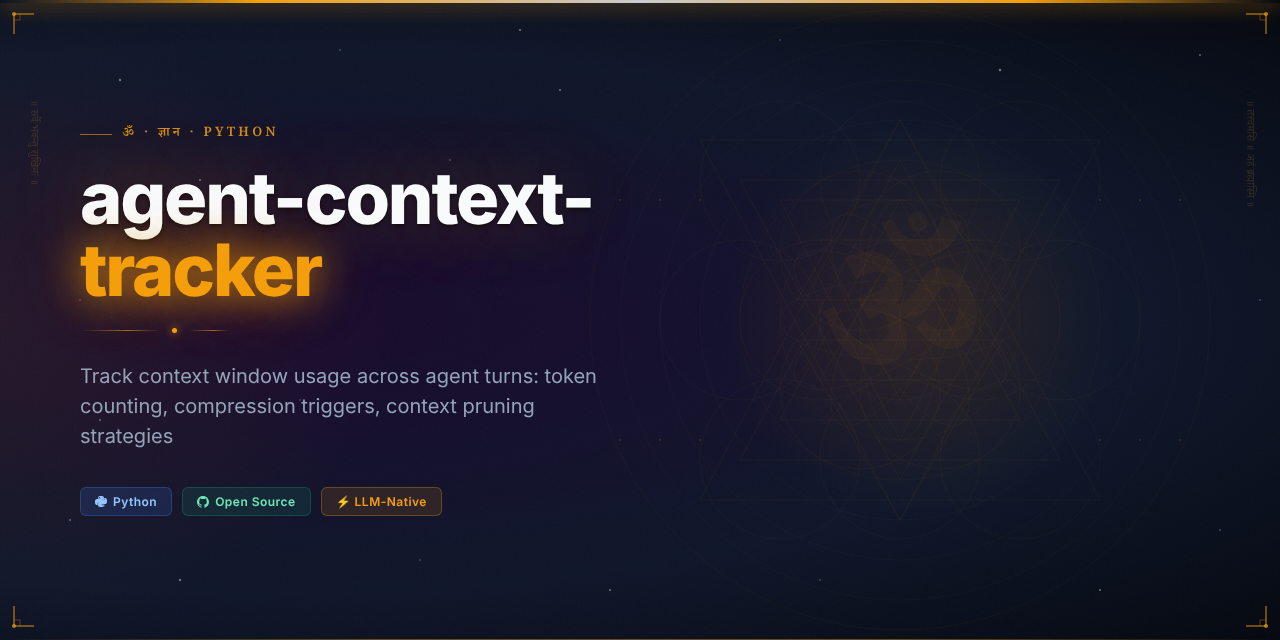
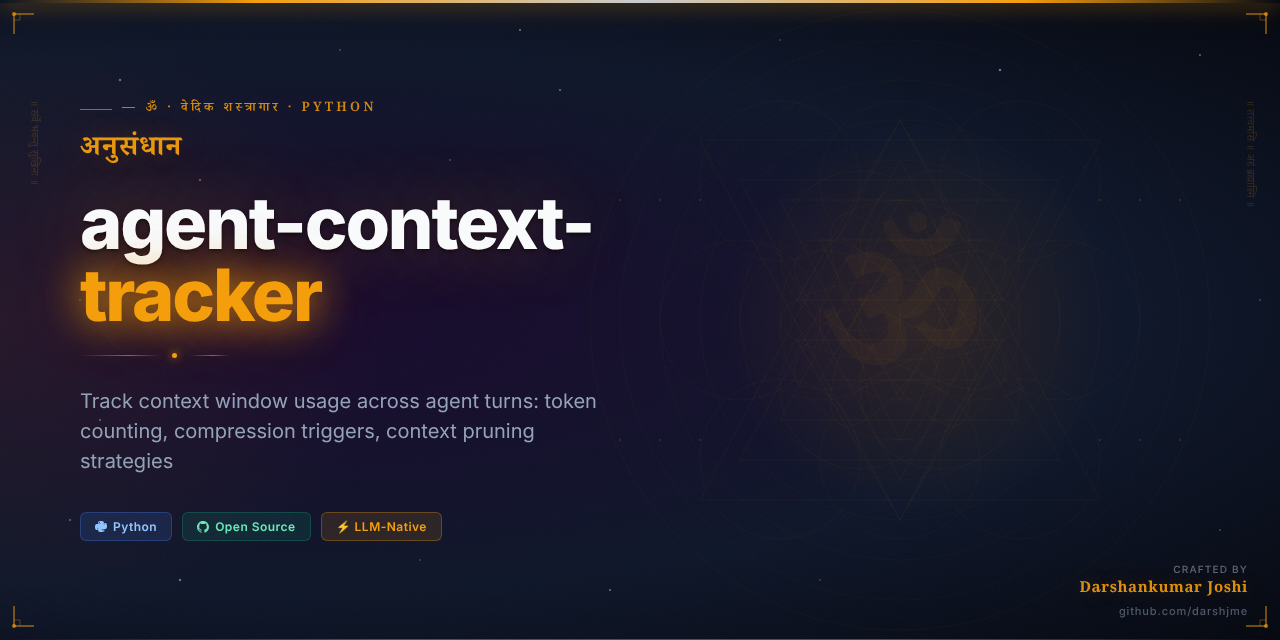
feat: add Vedic Arsenal hero image and updated README
Part of darshjme/arsenal — 100 production-grade Python libraries for LLM agents.
Vedic branding: ancient philosophy meets modern AI engineering.

Changed region(s): [[0.0625, 0.2812, 0.4688, 0.8438], [0.0625, 0.1562, 0.2812, 0.25], [0.8438, 0.875, 0.9688, 0.9688]]

diff --git a/README.md b/README.md
@@ -1,10 +1,12 @@
 <div align="center">
 
-<img src="assets/agent-context-tracker-hero.png" alt="agent-context-tracker — Vedic Arsenal" width="100%" />
+<img src="assets/agent-context-tracker-hero.png" alt="agent-context-tracker — Vedic Arsenal by Darshankumar Joshi" width="100%" />
 
 # ⚡ agent-context-tracker
 
-### *अनुसंधान* — Anusandhana — tracking the thread of consciousness
+<h3><em>अनुसंधान</em></h3>
+
+> *Anusandhana — tracking the thread of consciousness*
 
 **Track context window usage across agent turns: token counting, compression triggers, context pruning strategies**
 
@@ -39,6 +41,19 @@ Or clone directly:
 git clone https://github.com/darshjme/agent-context-tracker.git
 cd agent-context-tracker
 pip install -e .
+```
+
+## How It Works
+
+```mermaid
+flowchart LR
+    A[Input] --> B[agent-context-tracker]
+    B --> C{Process}
+    C -- Success --> D[Output]
+    C -- Error --> E[Handle / Retry]
+    E --> B
+    style B fill:#6b21a8,color:#fff
+    note["Context Tracker — Zero Dependencies"]
 ```
 
 ## Quick Start
@@ -90,7 +105,7 @@ MIT — use freely, build freely.
 
 <div align="center">
 
-**Built with ⚡ by [Darshankumar Joshi](https://github.com/darshjme)**
+**Built with ⚡ by [Darshankumar Joshi](https://github.com/darshjme)** · [@thedarshanjoshi](https://twitter.com/thedarshanjoshi)
 
 *"कर्मण्येवाधिकारस्ते मा फलेषु कदाचन"*
 *Your right is to action alone, never to the fruits thereof.*
